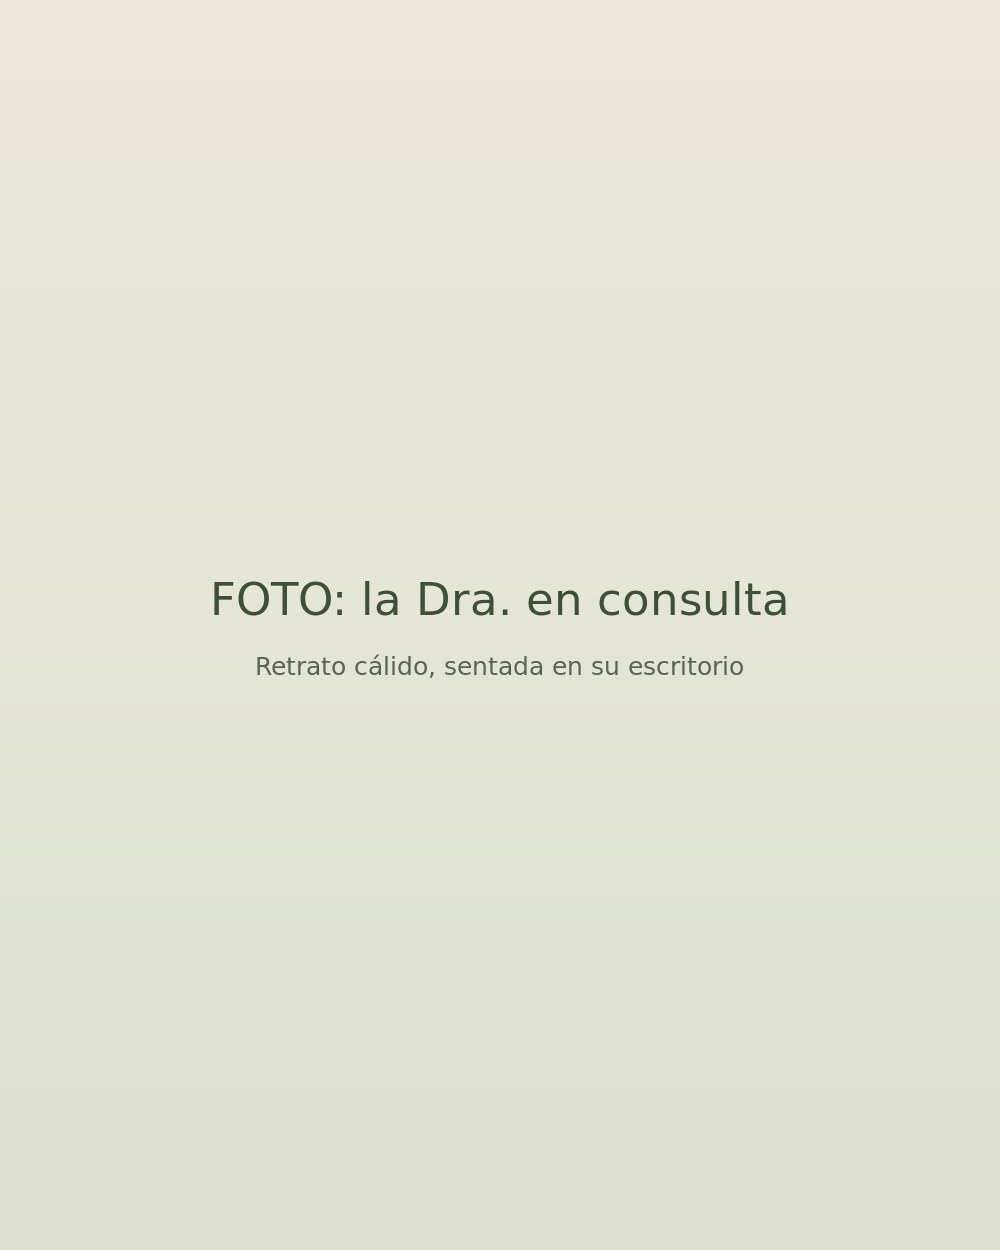
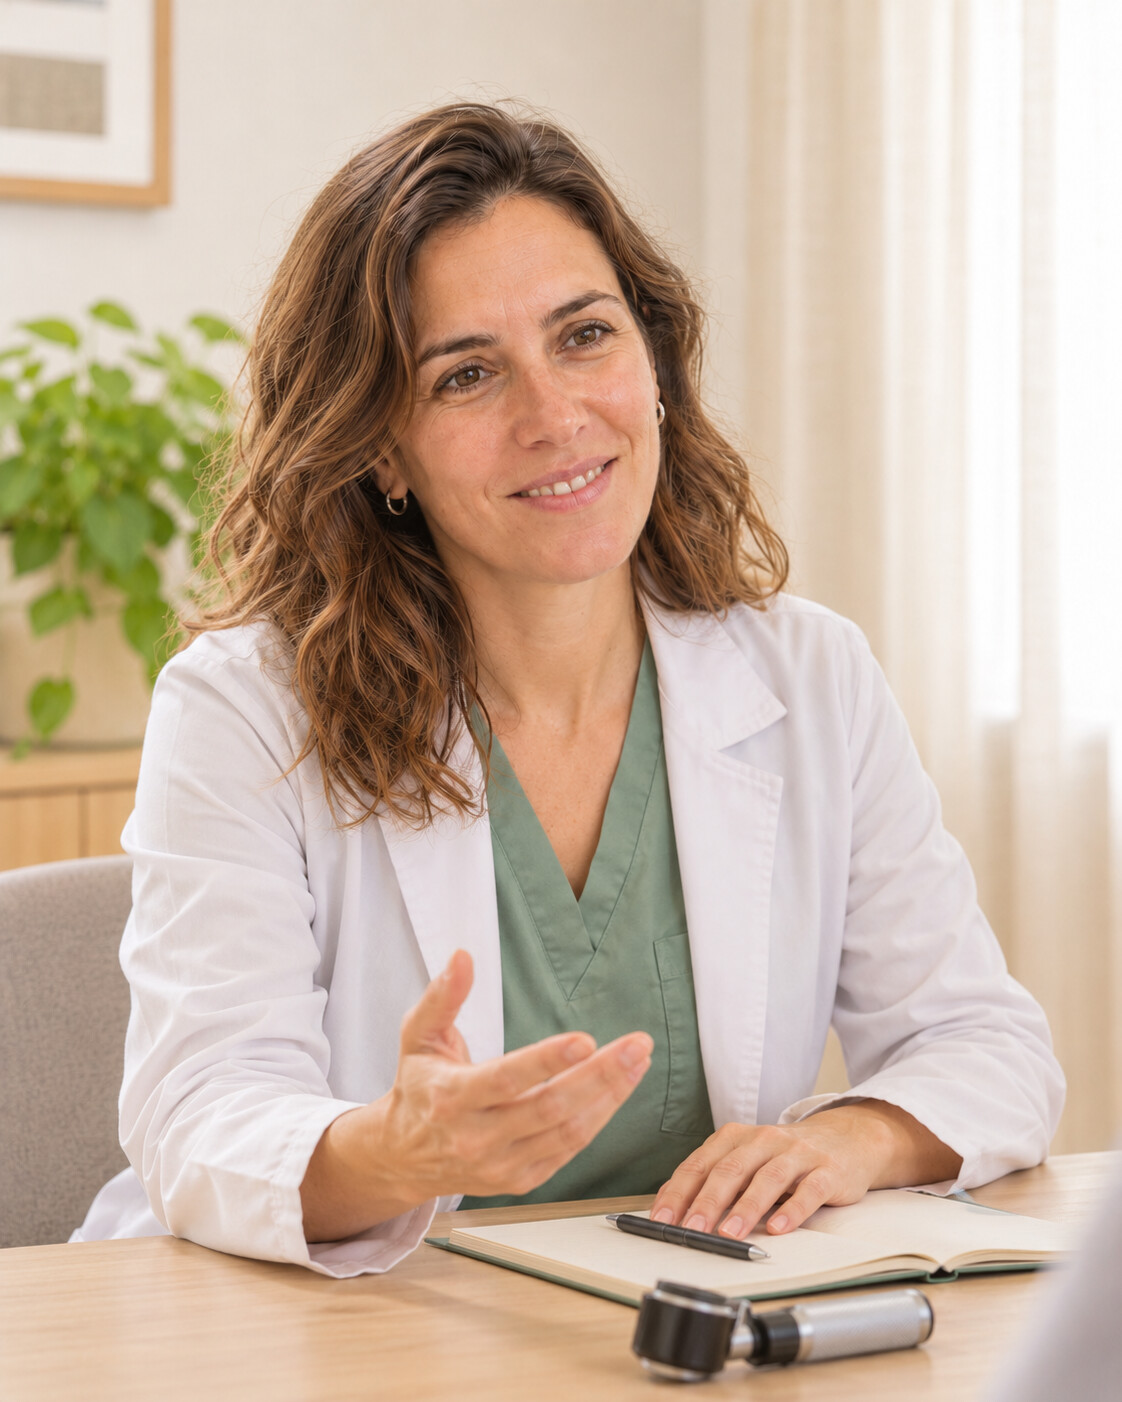
feat: replace placeholder portraits with AI-generated demo photos

diff --git a/src/content/site.ts b/src/content/site.ts
@@ -314,7 +314,7 @@ export const site: SiteContent = {
       hoursSuffix: 'h',
     },
     about: {
-      photoAlt: 'La Dra. Julieta Ferrari en su escritorio de consulta (imagen de ejemplo)',
+      photoAlt: 'La Dra. Julieta Ferrari conversando con una paciente en su escritorio de consulta (imagen de ejemplo)',
       quote: 'Prefiero que salgas de la consulta entendiendo qué tenés y qué hacer.',
       facts: [
         'Consultas para adultos, chicos y adolescentes',
